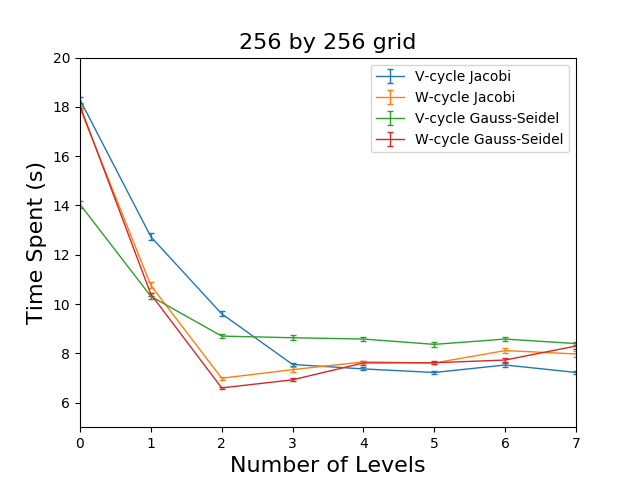
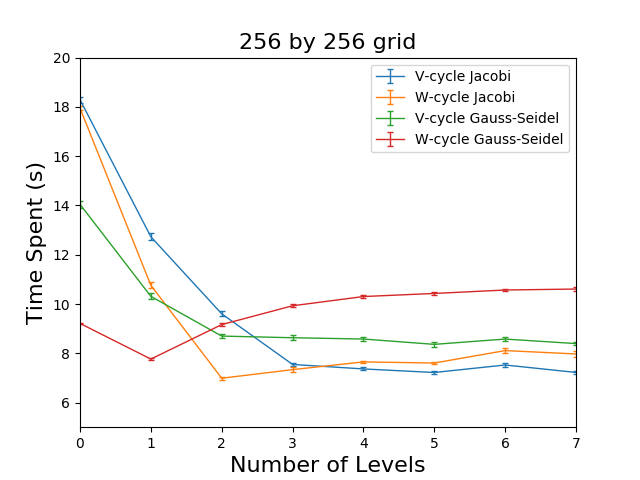
done

diff --git a/data/plot.py b/data/plot.py
@@ -6,10 +6,10 @@ NAMES1 = ["v_512_0lev_10stride_gauss.dat", "v_512_1lev_10stride_gauss.dat",
              "v_512_2lev_10stride_gauss.dat", "v_512_3lev_10stride_gauss.dat", 
              "v_512_4lev_10stride_gauss.dat", "v_512_5lev_10stride_gauss.dat", 
              "v_512_6lev_10stride_gauss.dat", "v_512_7lev_10stride_gauss.dat"]
-NAMES2 = ["w_512_0lev_10stride_gauss.dat", "w_512_1lev_10stride_gauss.dat",
-             "w_512_2lev_10stride_gauss.dat", "w_512_3lev_10stride_gauss.dat", 
-             "w_512_4lev_10stride_gauss.dat", "w_512_5lev_10stride_gauss.dat", 
-             "w_512_6lev_10stride_gauss.dat", "w_512_7lev_10stride_gauss.dat"]
+NAMES2 = ["new_w_512_0lev_10stride_gauss.dat", "new_w_512_1lev_10stride_gauss.dat",
+             "new_w_512_2lev_10stride_gauss.dat", "new_w_512_3lev_10stride_gauss.dat", 
+             "new_w_512_4lev_10stride_gauss.dat", "new_w_512_5lev_10stride_gauss.dat", 
+             "new_w_512_6lev_10stride_gauss.dat", "new_w_512_7lev_10stride_gauss.dat"]
 NAMES3 = ["mpi_v_512_0lev_10stride.dat", "mpi_v_512_1lev_10stride.dat",
              "mpi_v_512_2lev_10stride.dat", "mpi_v_512_3lev_10stride.dat",
              "mpi_v_512_4lev_10stride.dat", "mpi_v_512_5lev_10stride.dat",

diff --git a/src/plot.py b/src/plot.py
@@ -14,10 +14,10 @@ NAMES3 = ["v_256_0lev_10stride_gauss.dat", "v_256_1lev_10stride_gauss.dat",
              "v_256_2lev_10stride_gauss.dat", "v_256_3lev_10stride_gauss.dat", 
              "v_256_4lev_10stride_gauss.dat", "v_256_5lev_10stride_gauss.dat", 
              "v_256_6lev_10stride_gauss.dat", "v_256_7lev_10stride_gauss.dat"]
-NAMES4 = ["w_256_0lev_10stride_gauss.dat", "w_256_1lev_10stride_gauss.dat",
-             "w_256_2lev_10stride_gauss.dat", "w_256_3lev_10stride_gauss.dat", 
-             "w_256_4lev_10stride_gauss.dat", "w_256_5lev_10stride_gauss.dat", 
-             "w_256_6lev_10stride_gauss.dat", "w_256_7lev_10stride_gauss.dat"]
+NAMES4 = ["new_w_256_0lev_10stride_gauss.dat", "new_w_256_1lev_10stride_gauss.dat",
+             "new_w_256_2lev_10stride_gauss.dat", "new_w_256_3lev_10stride_gauss.dat", 
+             "new_w_256_4lev_10stride_gauss.dat", "new_w_256_5lev_10stride_gauss.dat", 
+             "new_w_256_6lev_10stride_gauss.dat", "new_w_256_7lev_10stride_gauss.dat"]
 
 def readfiles(filename):
     a = zeros(10)
